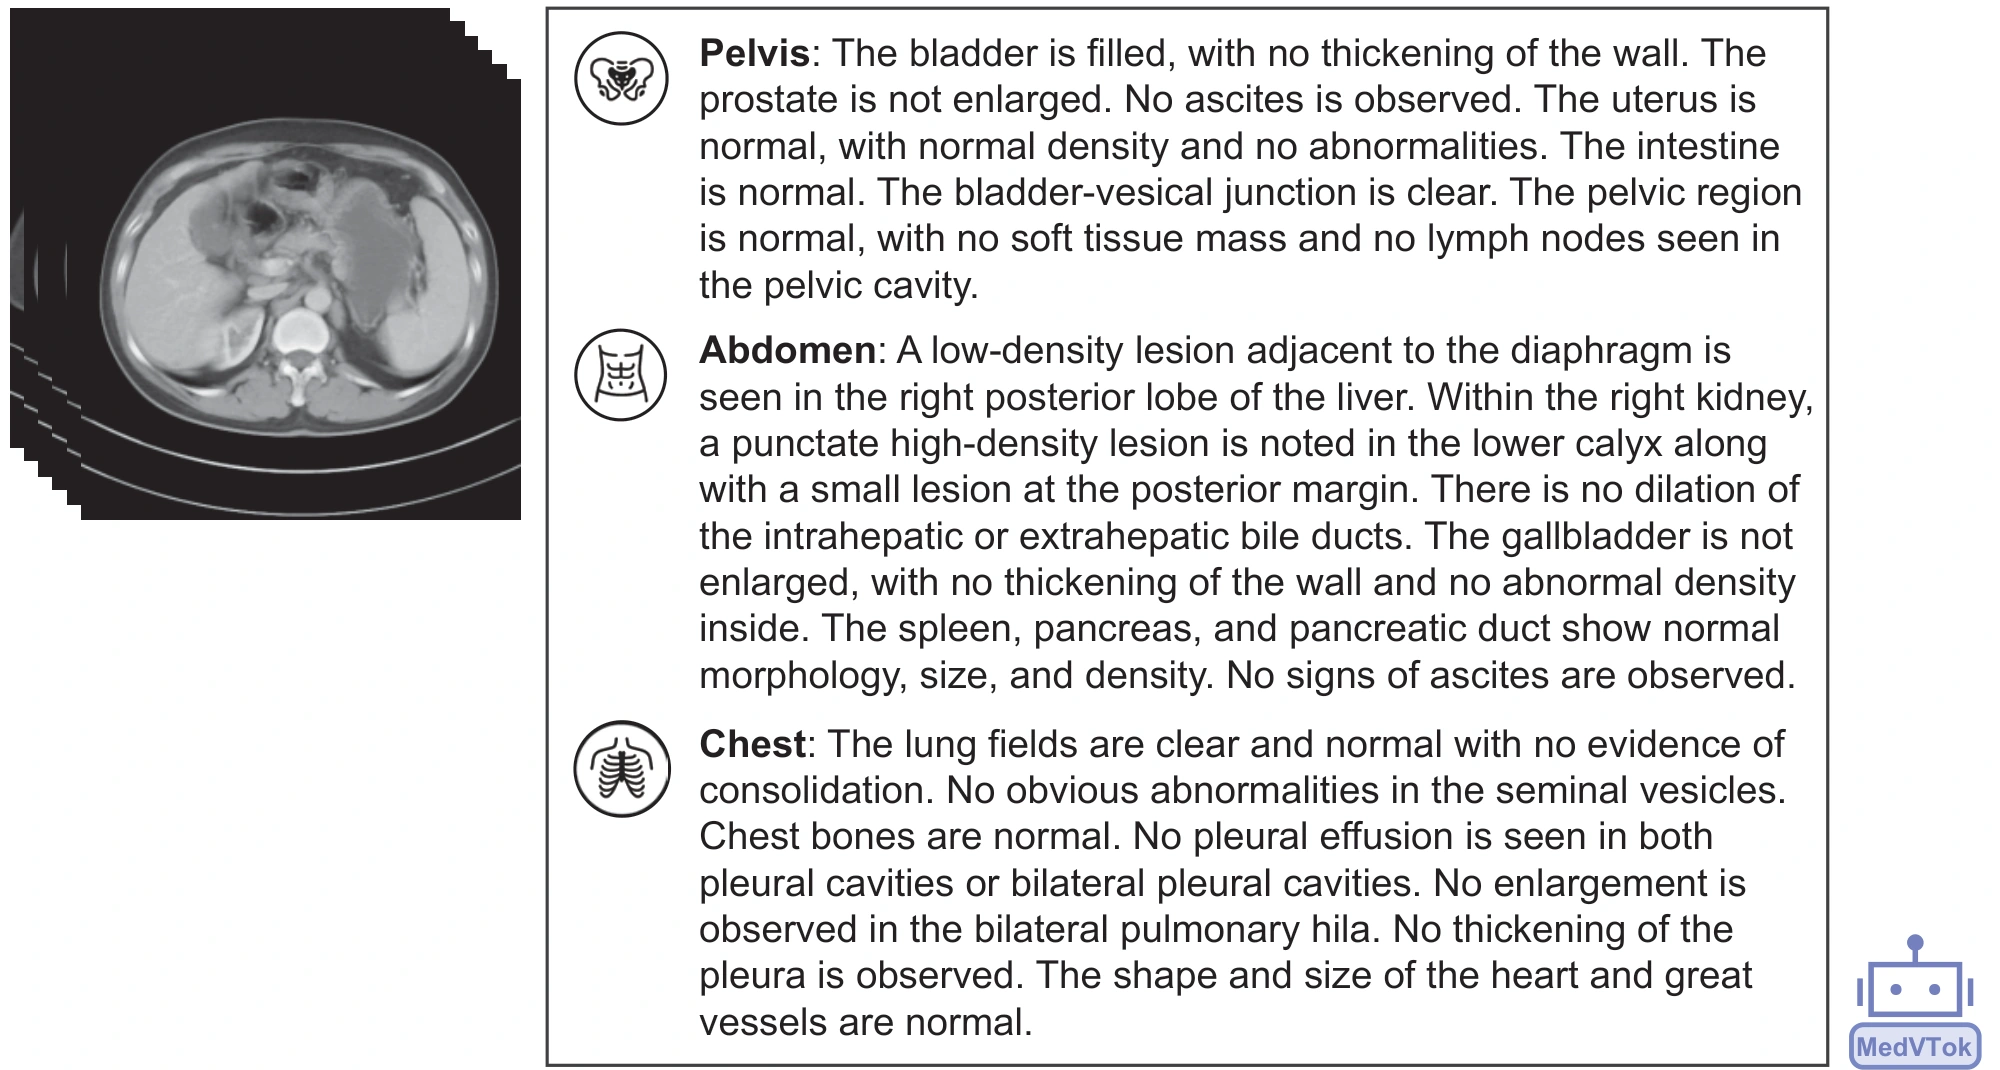
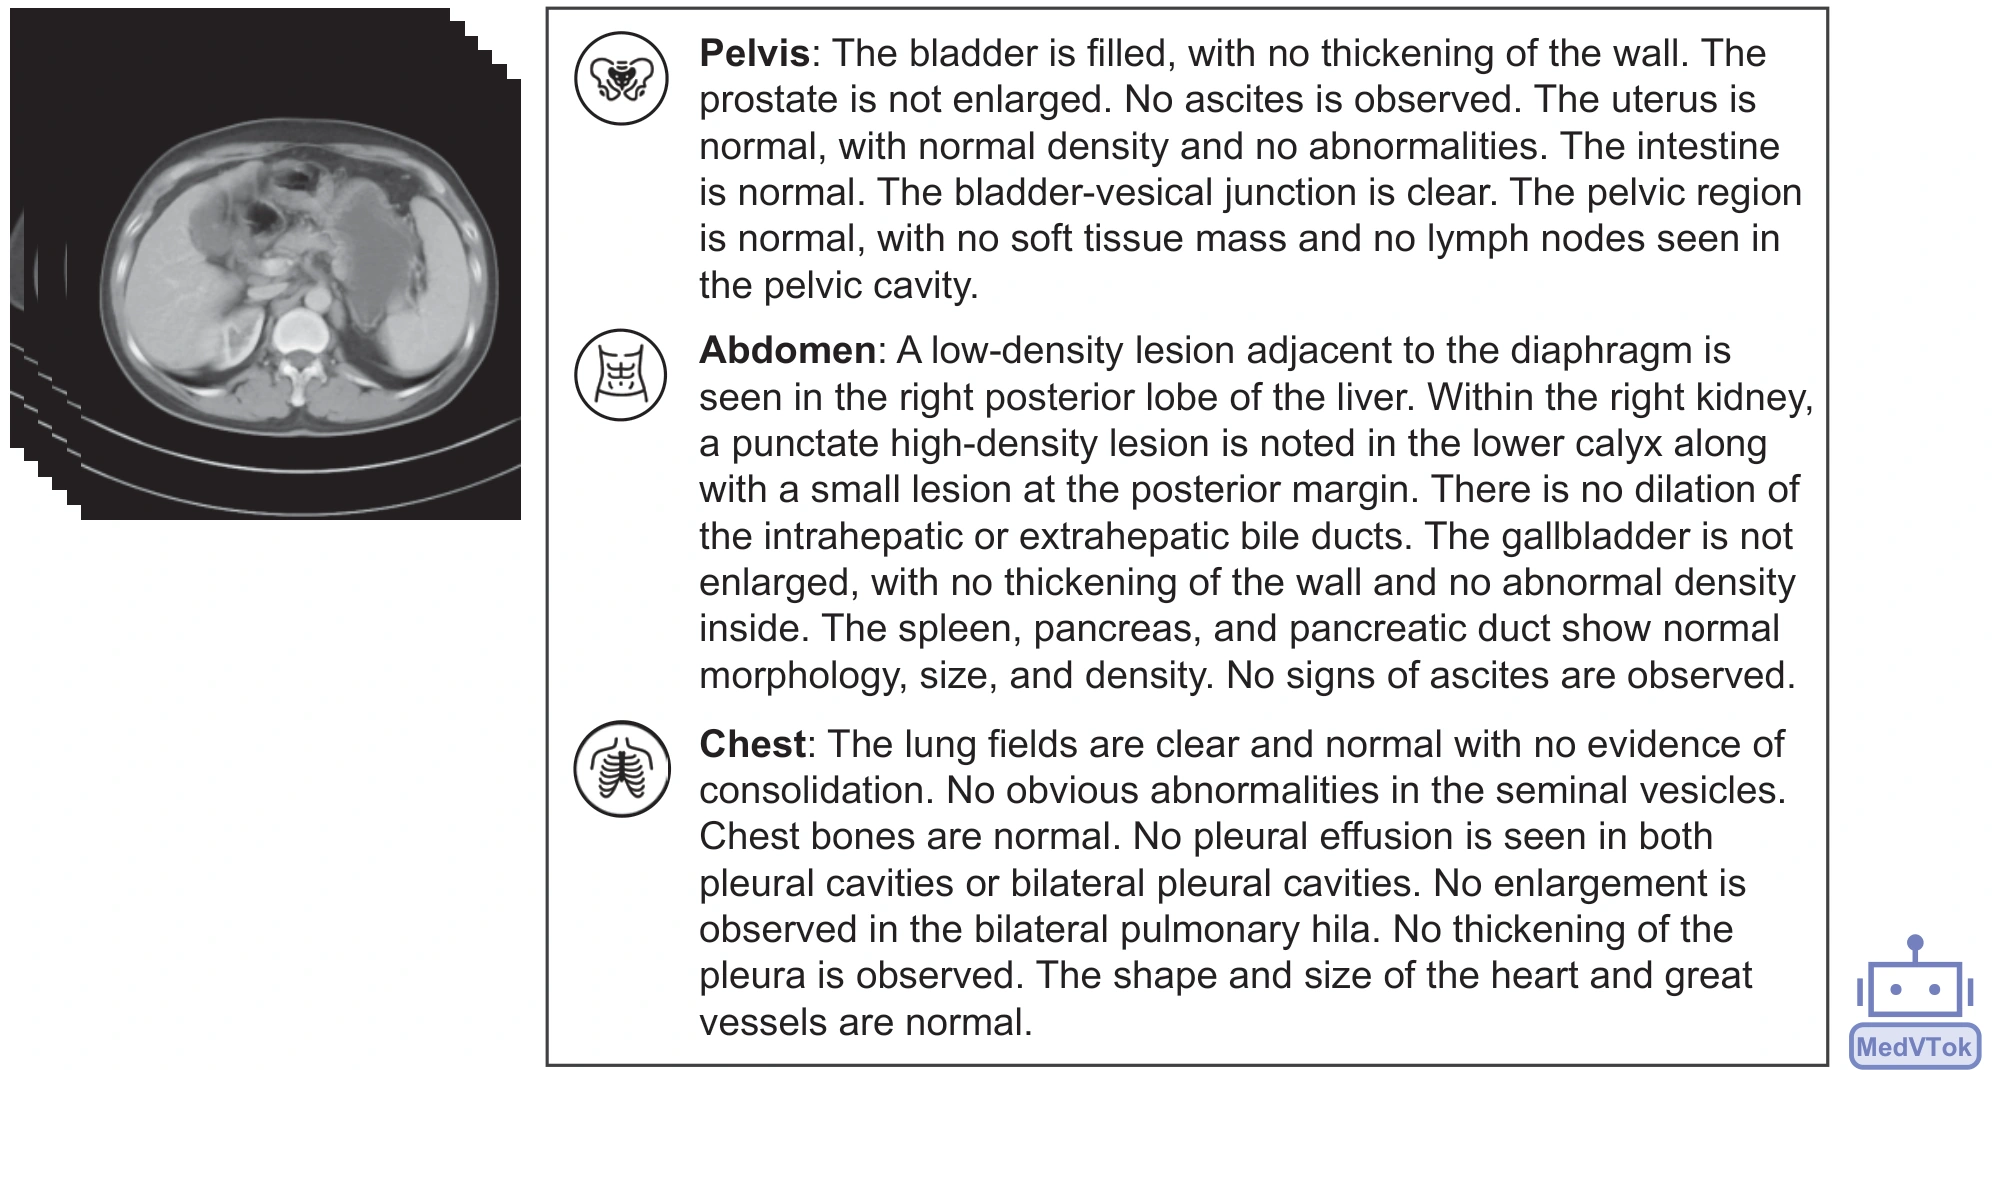
feat: update medvtok schema

Changed region(s): [[0.279, 0.0, 0.992, 1.0], [0.0, 0.0925, 0.279, 0.4935]]

diff --git a/medvtok/index.html b/medvtok/index.html
@@ -75,7 +75,7 @@
       <div class="center-heading"><p class="kicker">03 / The approach</p><h2 id="method-title">Preserve the anatomy.<br><span>Carry the clinical meaning.</span></h2><p>A shared representation has two obligations: retain what was observed, and expose the information that makes it useful across tasks.</p></div>
       <div class="method-pair">
         <article class="method-article"><div class="method-illustration loss-illustration" role="region" tabindex="0" aria-label="SliDR matches first- and second-order changes between neighboring input and reconstructed slices. Scroll horizontally on a narrow screen."><img src="assets/slidr-loss.svg" width="680" height="400" alt="SliDR matches first- and second-order changes between neighboring input and reconstructed slices." loading="lazy"><span class="schematic-label">Schematic · slice-difference supervision</span></div><p class="loss-diagram-hint">Scroll the diagram horizontally to explore both loss terms.</p><p class="eyebrow">Structural fidelity / SliDR</p><h3>Anatomy continues<br>between slices.</h3><p>Organs and lesions extend through a volume. Accurate individual slices alone do not ensure that their boundaries remain continuous.</p><p><strong>Slice Differential Regularization</strong> matches the reconstruction’s first- and second-order slice differences to those of the input. It preserves the observed anatomical transitions and curvature, rather than making neighboring slices identical.</p></article>
-        <article class="method-article"><div class="method-illustration loss-illustration" role="region" tabindex="0" aria-label="MERA combines shared-space contrastive alignment with a cosine match back in each expert’s native feature space. Scroll horizontally on a narrow screen."><img src="assets/mera-loss.svg" width="680" height="400" alt="MERA combines shared-space contrastive alignment with a cosine match back in each expert’s native feature space." loading="lazy"><span class="schematic-label">Schematic · two complementary alignment losses</span></div><p class="loss-diagram-hint">Scroll the diagram horizontally to explore both loss terms.</p><p class="eyebrow">Clinical semantics / MERA</p><h3>Shared knowledge.<br>Complementary expertise.</h3><p>Different modalities reveal different clinical cues. A common representation should retain that expertise as it brings the modalities together.</p><p><strong>Multi-Expert Representation Alignment</strong> contrasts each tokenizer feature with its matching projected expert feature in a shared space. A second loss back-projects the tokenizer feature into the expert’s native space and matches it there, retaining complementary specialist knowledge. Experts supervise training; inference uses MedVTok alone.</p></article>
+        <article class="method-article"><div class="method-illustration loss-illustration" role="region" tabindex="0" aria-label="MERA first maps foundation-model spaces into MedVTok’s shared space, then aligns MedVTok features back in each foundation model’s native space. Scroll horizontally on a narrow screen."><img src="assets/mera-loss.svg?v=bidirectional-2" width="680" height="400" alt="MERA first maps foundation-model spaces into MedVTok’s shared space, then aligns MedVTok features back in each foundation model’s native space." loading="lazy"><span class="schematic-label">Schematic · foundation models ↔ MedVTok</span></div><p class="loss-diagram-hint">Scroll the diagram horizontally to explore both loss terms.</p><p class="eyebrow">Clinical semantics / MERA</p><h3>Shared knowledge.<br>Complementary expertise.</h3><p>Different modalities reveal different clinical cues. A common representation should retain that expertise as it brings the modalities together.</p><p><strong>Multi-Expert Representation Alignment</strong> first maps each foundation model’s features into MedVTok’s shared representation space for contrastive alignment. It then maps MedVTok’s features back into each foundation model’s native space for complementary alignment, preserving that model’s distinctive knowledge. Foundation models supervise training; inference uses MedVTok alone.</p></article>
       </div>
       <details class="evidence-details framework-details"><summary>View the training framework <span class="detail-icon" aria-hidden="true">+</span></summary><figure class="paper-figure"><a class="figure-link" href="assets/framework.webp" data-zoom data-caption="The MedVTok training framework: reconstruction and SliDR preserve structure; MERA aligns clinical semantics." aria-label="Enlarge the training framework"><img src="assets/framework.webp" alt="MedVTok encoder, decoder, SliDR, and multi-expert semantic alignment objectives." width="2200" height="868" loading="lazy"><span class="zoom-hint" aria-hidden="true"><svg viewBox="0 0 24 24" aria-hidden="true"><path d="M5 19 19 5M5 5h14v14"/></svg></span></a></figure></details>
     </div>
@@ -155,7 +155,7 @@
         <figure class="task-chart"><figcaption><span>Paper-reported averages</span><span>GREEN ↑</span></figcaption><div class="result-bars"><div class="result-bar"><span class="result-model">PUMIT</span><span class="result-track"><i style="width:56.0488%"></i></span><strong>0.250</strong></div><div class="result-bar"><span class="result-model">MedVAE</span><span class="result-track"><i style="width:51.5649%"></i></span><strong>0.230</strong></div><div class="result-bar"><span class="result-model">MedITok</span><span class="result-track"><i style="width:86.5393%"></i></span><strong>0.386</strong></div><div class="result-bar ours"><span class="result-model">MedVTok</span><span class="result-track"><i style="width:92.5926%"></i></span><strong>0.413</strong></div></div><p>Average over three anatomical regions in AMOS-MM. Bars start at zero.</p></figure>
       </div>
       <details class="evidence-details"><summary>Explore the report generation breakdown <span class="detail-icon" aria-hidden="true">+</span></summary><div class="table-scroll" role="region" aria-label="Report generation benchmark results" tabindex="0"><table><caption>GREEN ↑ · selected tokenizer baselines · paper table: mrg</caption><thead><tr><th scope="col">Region</th><th scope="col">PUMIT</th><th scope="col">MedVAE</th><th scope="col">MedITok</th><th scope="col">MedVTok</th></tr></thead><tbody><tr><th scope="row">Abdomen</th><td>0.421</td><td>0.401</td><td>0.412</td><td class=ours>0.425</td></tr><tr><th scope="row">Chest</th><td>0.204</td><td>0.186</td><td>0.256</td><td class=ours>0.300</td></tr><tr><th scope="row">Pelvis</th><td>0.124</td><td>0.105</td><td>0.492</td><td class=ours>0.515</td></tr></tbody></table></div></details>
-      <div class="task-visual"><div class="visual-heading"><span>Qualitative evidence</span><span>Two report cases · select to enlarge ↗</span></div><div class="report-case-scroll" role="region" tabindex="0" aria-label="Two report generation cases, arranged side by side; scroll horizontally on narrow screens"><div class="report-case-grid"><figure class="paper-figure task-figure"><a class="figure-link" href="assets/report-generation-case-1.webp" data-zoom data-caption="CT report generation · Case 1 · region-specific findings from frozen MedVTok visual tokens." aria-label="Enlarge report generation case 1"><img src="assets/report-generation-case-1.webp" alt="CT volume and generated pelvis, abdomen and chest findings for report case 1" width="2000" height="1070" loading="lazy" decoding="async"><span class="zoom-hint" aria-hidden="true">↗</span></a><figcaption>Case 1 · region-specific CT findings</figcaption></figure><figure class="paper-figure task-figure"><a class="figure-link" href="assets/report-generation-case-2.webp" data-zoom data-caption="CT report generation · Case 2 · region-specific findings from frozen MedVTok visual tokens." aria-label="Enlarge report generation case 2"><img src="assets/report-generation-case-2.webp" alt="CT volume and generated pelvis, abdomen and chest findings for report case 2" width="2000" height="1198" loading="lazy" decoding="async"><span class="zoom-hint" aria-hidden="true">↗</span></a><figcaption>Case 2 · region-specific CT findings</figcaption></figure></div></div></div>
+      <div class="task-visual"><div class="visual-heading"><span>Qualitative evidence</span><span>Two report cases · select to enlarge ↗</span></div><div class="report-case-scroll" role="region" tabindex="0" aria-label="Two report generation cases, arranged side by side; scroll horizontally on narrow screens"><div class="report-case-grid"><figure class="paper-figure task-figure"><a class="figure-link" href="assets/report-generation-case-1.webp?v=equal-height-1" data-zoom data-caption="CT report generation · Case 1 · region-specific findings from frozen MedVTok visual tokens." aria-label="Enlarge report generation case 1"><img src="assets/report-generation-case-1.webp?v=equal-height-1" alt="CT volume and generated pelvis, abdomen and chest findings for report case 1" width="2000" height="1198" loading="lazy" decoding="async"><span class="zoom-hint" aria-hidden="true">↗</span></a><figcaption>Case 1 · region-specific CT findings</figcaption></figure><figure class="paper-figure task-figure"><a class="figure-link" href="assets/report-generation-case-2.webp" data-zoom data-caption="CT report generation · Case 2 · region-specific findings from frozen MedVTok visual tokens." aria-label="Enlarge report generation case 2"><img src="assets/report-generation-case-2.webp" alt="CT volume and generated pelvis, abdomen and chest findings for report case 2" width="2000" height="1198" loading="lazy" decoding="async"><span class="zoom-hint" aria-hidden="true">↗</span></a><figcaption>Case 2 · region-specific CT findings</figcaption></figure></div></div></div>
     </section></div>
     <p class="benchmark-note">Selected tokenizer baselines are shown for a consistent comparison. Values are the paper’s reported metrics; each task uses its own evaluation protocol.</p>
   </div></section>
